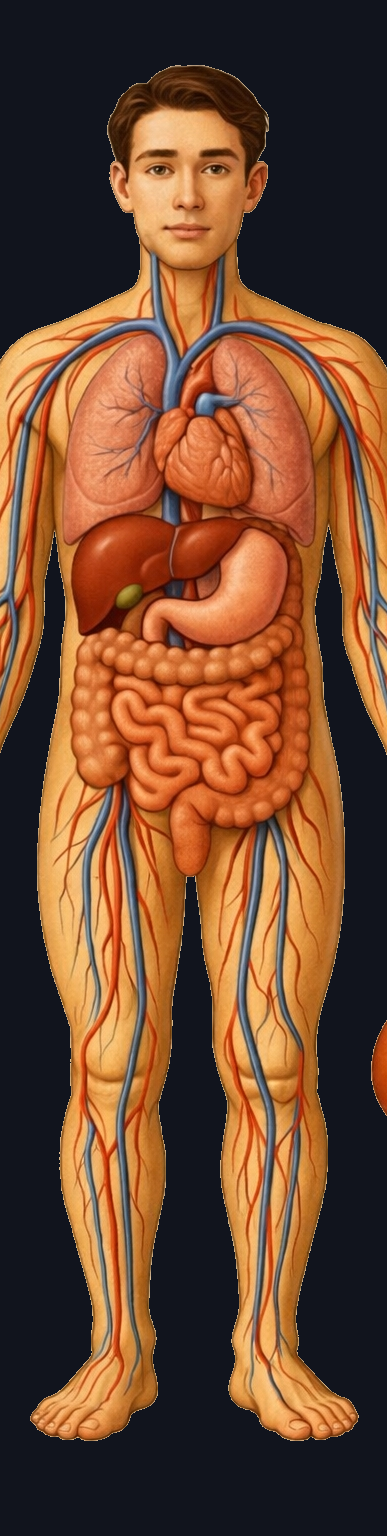
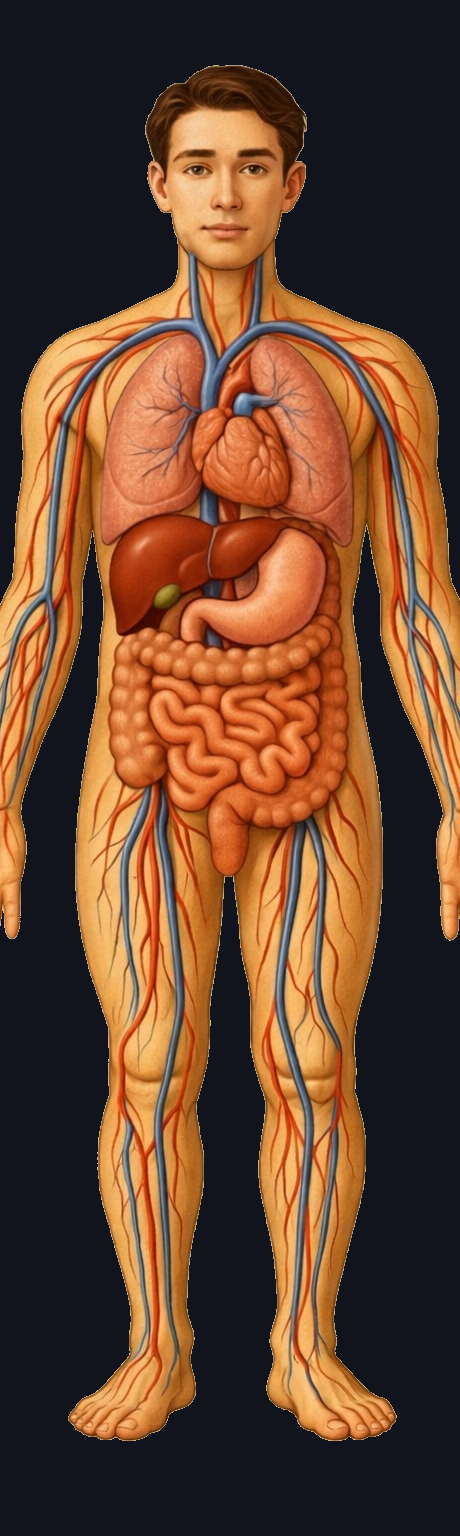
Remove floating side organs using connected-component fill + cache bust
Flood-fill outward from the body centre to keep only pixels physically
connected to the main figure. Disconnected side callout organs (brain,
kidneys, bladder, liver thumbnails) are painted to the dark background
regardless of position. Add ?v=3 cache-buster so browsers fetch the
updated image.

Claude-Session: https://claude.ai/code/session_01K3JLxRsiwdAFU8mqRfTYAS

diff --git a/index.html b/index.html
@@ -70,7 +70,7 @@
     <div class="panel">
       <h2>Inside the body</h2>
       <div class="body" id="body">
-        <img src="body.png" alt="human body with organs" />
+        <img src="body.png?v=3" alt="human body with organs" />
         <div id="bodyFlash"></div>
       </div>
       <div style="margin-top:18px">
